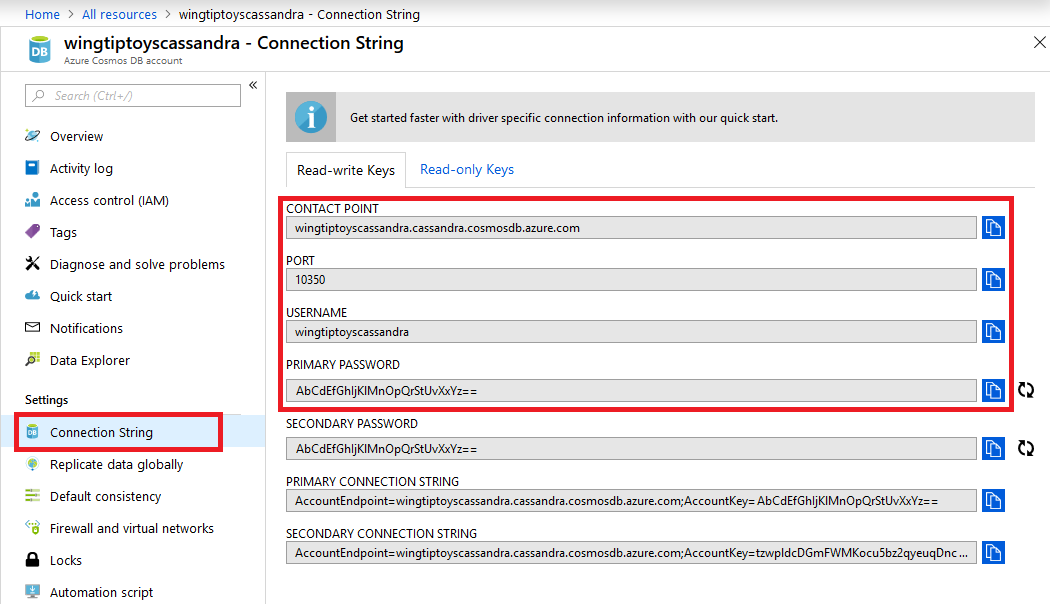
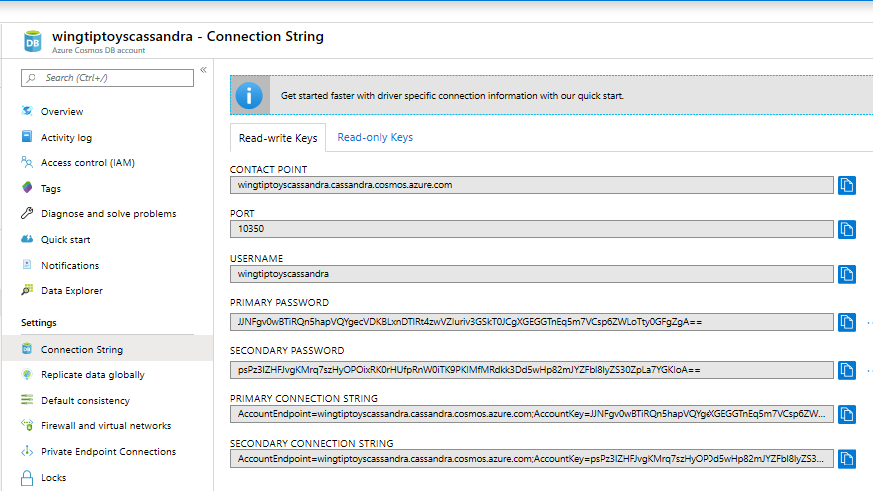
Update image

diff --git a/java/spring-framework/configure-spring-data-apache-cassandra-with-cosmos-db.md b/java/spring-framework/configure-spring-data-apache-cassandra-with-cosmos-db.md
@@ -77,11 +77,9 @@ The following prerequisites are required in order to complete the steps in this 
 
 1. Click **All Resources**, then click the Azure Cosmos DB account you just created.
 
-   ![Select your Azure Cosmos DB account][COSMOSDB04]
-
 1. Click **Connection strings**, and copy the values for the **Contact Point**, **Port**, **Username**, and **Primary Password** fields; you will use those values to configure your application later.
 
-   ![Retrieve your Cosmos DB connection settings][COSMOSDB05]
+   ![Retrieve your Cosmos DB connection settings][COSMOSDB06]
 
 ## Configure the sample application
 
